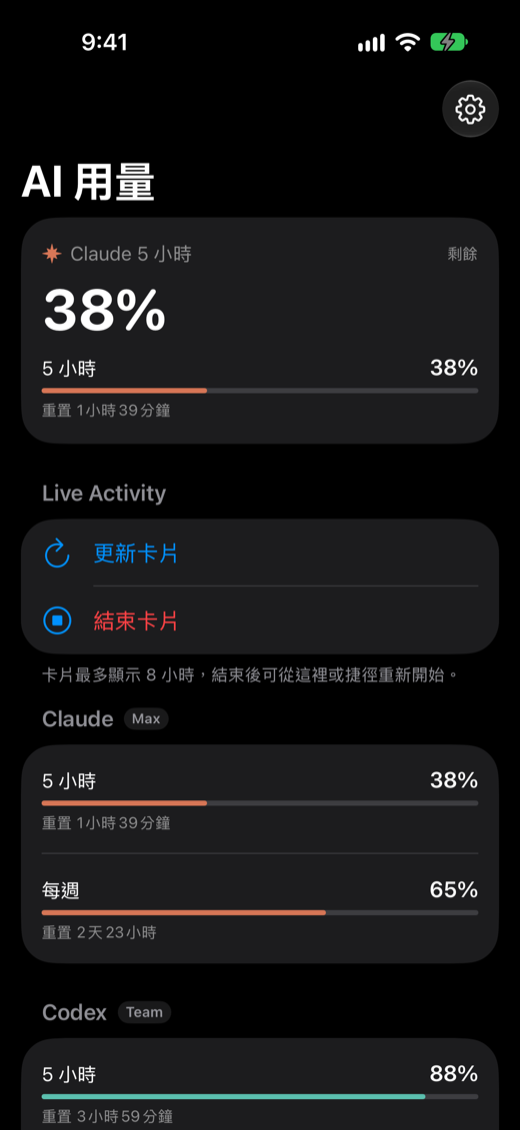
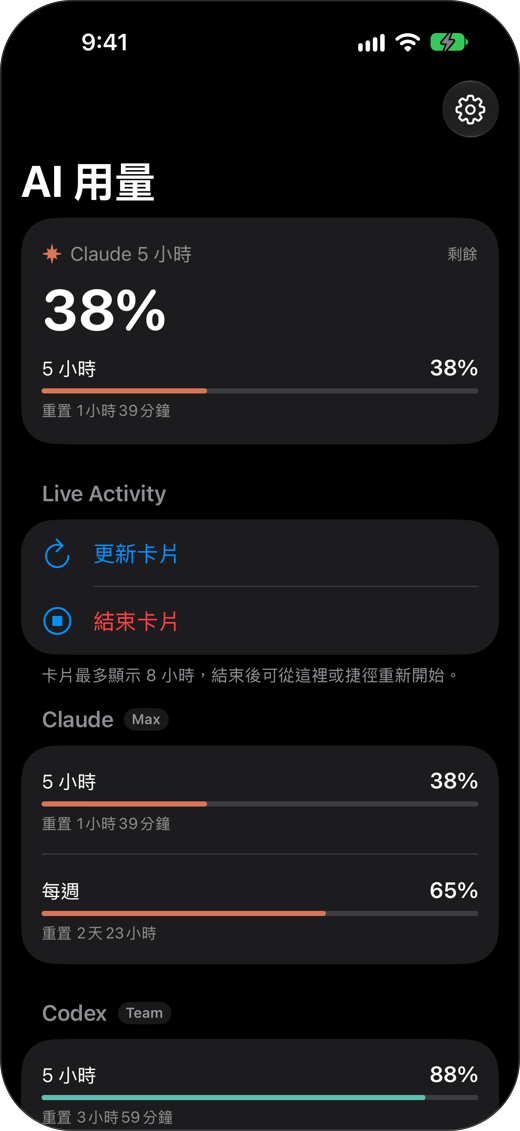
docs: README screenshots in equal-height rows with frames (#92)
* feat(scripts): crop, rounded corners and a thin border for README images

scripts/readme-image-post.swift crops, scales and frames PNG and GIF
images (GIF frames keep their delays; corners are filled with the
GitHub page colour because transparent GIF corners made the file four
times larger). SOURCES.tsv gets an optional fifth column for it, and
update-readme-images.sh runs it instead of sips.

* docs: README screenshots in equal-height rows with frames

The top row is the upper half of the Mac panel next to the iPhone app
(the full panel moves into a collapsible section), then the Dynamic
Island next to the watch. The stats GIF sits beside the full stats
window instead of beside the panel. Widths are chosen so images in a
row have the same height, and every screen gets rounded corners and a
thin border so white screens no longer blend into the page.

---------

Changed region(s): [[0.8615, 0.0, 1.0, 1.0], [0.0, 0.9292, 0.1538, 1.0], [0.0, 0.0, 0.0923, 0.0619]]

diff --git a/scripts/readme-image-post.swift b/scripts/readme-image-post.swift
@@ -1,0 +1,164 @@
+// README 截圖的後製：裁切、縮放、圓角與細邊框（scripts/update-readme-images.sh 依 docs/images/SOURCES.tsv 呼叫）。
+//
+//   swiftc -O scripts/readme-image-post.swift -o build/readme-image-post
+//   build/readme-image-post <PNG 或 GIF> [crop=<y>:<高>] [width=<寬>] [frame=<圓角半徑>]
+//
+// 不管參數順序，一律先裁切（原圖像素，從頂端 y 起留下指定高度），再縮放到指定寬度（等比例），最後加框（縮放後的像素）。
+// 框：圓角外變透明（GIF 改填 GitHub 頁面的底色，見 framed），沿圓角內緣畫寬度約 1 pt（寬度 ÷ 360，至少 1 像素）的邊框；
+// 圖的外圈偏亮時用淡黑色、偏暗時用淡白色，讓白底與深色底的畫面在 GitHub 的淺色與深色頁面上都有輪廓。
+// GIF 逐格處理，保留每格的停留時間與重複播放的設定。直接覆寫原檔。
+// 結束碼：0＝完成，2＝參數錯誤，3＝讀不到或寫不出圖。
+import CoreGraphics
+import Foundation
+import ImageIO
+import UniformTypeIdentifiers
+
+struct Options {
+    var crop: (y: Int, height: Int)?
+    var width: Int?
+    var frame: Double?
+}
+
+func fail(_ message: String, _ code: Int32) -> Never {
+    FileHandle.standardError.write(Data("readme-image-post：\(message)\n".utf8))
+    exit(code)
+}
+
+func parse(_ args: ArraySlice<String>) -> Options {
+    var options = Options()
+    for arg in args {
+        let parts = arg.split(separator: "=", maxSplits: 1).map(String.init)
+        guard parts.count == 2 else { fail("看不懂參數 \(arg)", 2) }
+        switch parts[0] {
+        case "crop":
+            let numbers = parts[1].split(separator: ":").compactMap { Int($0) }
+            guard numbers.count == 2, numbers[0] >= 0, numbers[1] > 0 else { fail("crop 要寫成 crop=<y>:<高>", 2) }
+            options.crop = (numbers[0], numbers[1])
+        case "width":
+            guard let width = Int(parts[1]), width > 0 else { fail("width 要是正整數", 2) }
+            options.width = width
+        case "frame":
+            guard let radius = Double(parts[1]), radius >= 0 else { fail("frame 要是圓角半徑（像素）", 2) }
+            options.frame = radius
+        default:
+            fail("不認得的參數 \(parts[0])", 2)
+        }
+    }
+    return options
+}
+
+let sRGB = CGColorSpace(name: CGColorSpace.sRGB)!
+
+func context(width: Int, height: Int) -> CGContext {
+    guard let context = CGContext(data: nil, width: width, height: height, bitsPerComponent: 8, bytesPerRow: 0, space: sRGB,
+                                  bitmapInfo: CGImageAlphaInfo.premultipliedLast.rawValue) else { fail("無法建立畫布", 3) }
+    context.interpolationQuality = .high
+    return context
+}
+
+func resized(_ image: CGImage, width: Int) -> CGImage {
+    let height = max(Int((Double(image.height) * Double(width) / Double(image.width)).rounded()), 1)
+    let canvas = context(width: width, height: height)
+    canvas.draw(image, in: CGRect(x: 0, y: 0, width: width, height: height))
+    return canvas.makeImage()!
+}
+
+/// 外圈 4 像素的平均亮度（0～1），用來決定邊框用淡黑或淡白
+func edgeLuminance(_ image: CGImage) -> Double {
+    let width = image.width, height = image.height
+    let canvas = context(width: width, height: height)
+    canvas.draw(image, in: CGRect(x: 0, y: 0, width: width, height: height))
+    let data = canvas.data!.assumingMemoryBound(to: UInt8.self)
+    let stride = canvas.bytesPerRow
+    var total = 0.0, count = 0.0
+    for y in 0..<height {
+        for x in 0..<width where x < 4 || x >= width - 4 || y < 4 || y >= height - 4 {
+            let p = data + y * stride + x * 4
+            let alpha = Double(p[3]) / 255
+            guard alpha > 0 else { continue }
+            total += (0.2126 * Double(p[0]) + 0.7152 * Double(p[1]) + 0.0722 * Double(p[2])) / 255 / alpha
+            count += 1
+        }
+    }
+    return count > 0 ? total / count : 1
+}
+
+/// opaque：GIF 用。透明的圓角會讓 ImageIO 每格多存透明色，檔案大四倍以上，所以圓角外改填 GitHub 頁面的底色
+/// （淺色 #ffffff、深色 #0d1117；README 以 <picture> 依讀者的系統挑淺色或深色版）
+func framed(_ image: CGImage, radius: Double, light: Bool, opaque: Bool) -> CGImage {
+    let width = image.width, height = image.height
+    let border = max(Double(width) / 360, 1)
+    let canvas = context(width: width, height: height)
+    let bounds = CGRect(x: 0, y: 0, width: width, height: height)
+    if opaque {
+        canvas.setFillColor(light ? CGColor(srgbRed: 1, green: 1, blue: 1, alpha: 1)
+                                  : CGColor(srgbRed: 13 / 255, green: 17 / 255, blue: 23 / 255, alpha: 1))
+        canvas.fill(bounds)
+    }
+    let r = min(radius, Double(min(width, height)) / 2)
+    canvas.addPath(CGPath(roundedRect: bounds, cornerWidth: r, cornerHeight: r, transform: nil))
+    canvas.clip()
+    canvas.draw(image, in: bounds)
+    let inset = bounds.insetBy(dx: border / 2, dy: border / 2)
+    let innerRadius = max(r - border / 2, 0)
+    canvas.addPath(CGPath(roundedRect: inset, cornerWidth: innerRadius, cornerHeight: innerRadius, transform: nil))
+    canvas.setLineWidth(border)
+    canvas.setStrokeColor(light ? CGColor(srgbRed: 0, green: 0, blue: 0, alpha: 0.14)
+                                : CGColor(srgbRed: 1, green: 1, blue: 1, alpha: 0.18))
+    canvas.strokePath()
+    return canvas.makeImage()!
+}
+
+let arguments = CommandLine.arguments
+guard arguments.count >= 2 else { fail("用法：readme-image-post <PNG 或 GIF> [crop=<y>:<高>] [width=<寬>] [frame=<半徑>]", 2) }
+let url = URL(fileURLWithPath: arguments[1])
+let options = parse(arguments.dropFirst(2))
+
+guard let source = CGImageSourceCreateWithURL(url as CFURL, nil), let type = CGImageSourceGetType(source) else {
+    fail("讀不到 \(url.lastPathComponent)", 3)
+}
+let count = CGImageSourceGetCount(source)
+var frames: [(CGImage, CFDictionary?)] = []
+var light: Bool?
+for index in 0..<count {
+    guard var image = CGImageSourceCreateImageAtIndex(source, index, nil) else { fail("讀不到第 \(index + 1) 格", 3) }
+    if let crop = options.crop {
+        guard crop.y + crop.height <= image.height,
+              let cropped = image.cropping(to: CGRect(x: 0, y: crop.y, width: image.width, height: crop.height)) else {
+            fail("裁切範圍超出圖片（高 \(image.height)）", 2)
+        }
+        image = cropped
+    }
+    if let width = options.width, width != image.width { image = resized(image, width: width) }
+    if let radius = options.frame {
+        if light == nil { light = edgeLuminance(image) >= 0.5 }  // GIF 以第一格決定，整段一致
+        image = framed(image, radius: radius, light: light!, opaque: UTType(type as String) == .gif)
+    }
+    // 只保留 GIF 的停留時間；PNG 的 DPI 等屬性不帶過去（縮放後已不對）
+    var properties: [CFString: Any] = [:]
+    if let frameProperties = CGImageSourceCopyPropertiesAtIndex(source, index, nil) as? [CFString: Any],
+       let gif = frameProperties[kCGImagePropertyGIFDictionary] as? [CFString: Any] {
+        properties[kCGImagePropertyGIFDictionary] = gif.filter {
+            [kCGImagePropertyGIFDelayTime, kCGImagePropertyGIFUnclampedDelayTime].contains($0.key)
+        }
+    }
+    frames.append((image, properties.isEmpty ? nil : properties as CFDictionary))
+}
+
+let temporary = url.deletingLastPathComponent().appendingPathComponent(".\(url.lastPathComponent).tmp")
+guard let destination = CGImageDestinationCreateWithURL(temporary as CFURL, type, count, nil) else {
+    fail("寫不出 \(url.lastPathComponent)", 3)
+}
+if let fileProperties = CGImageSourceCopyProperties(source, nil) as? [CFString: Any],
+   let gif = fileProperties[kCGImagePropertyGIFDictionary] as? [CFString: Any],
+   let loop = gif[kCGImagePropertyGIFLoopCount] {
+    CGImageDestinationSetProperties(destination, [kCGImagePropertyGIFDictionary: [kCGImagePropertyGIFLoopCount: loop]] as CFDictionary)
+}
+for (image, properties) in frames { CGImageDestinationAddImage(destination, image, properties) }
+guard CGImageDestinationFinalize(destination) else { fail("寫不出 \(url.lastPathComponent)", 3) }
+do {
+    _ = try FileManager.default.replaceItemAt(url, withItemAt: temporary)
+} catch {
+    try? FileManager.default.removeItem(at: temporary)
+    fail("無法覆寫 \(url.lastPathComponent)", 3)
+}

diff --git a/scripts/tests/test_check_readme_images.py b/scripts/tests/test_check_readme_images.py
@@ -97,6 +97,18 @@ class CheckReadmeImagesTests(unittest.TestCase):
         r = self.run_check("--strict")
         self.assertEqual(r.returncode, 0, r.stdout)
 
+    def test_post_processing_column_is_accepted(self):
+        self.write("docs/images/SOURCES.tsv", HEADER + "panel.png\tmac:panel-light.png\tapple/Snapshots/mac/panel-light.png\t-\tcrop=0:1186 frame=24\n")
+        self.commit("post column", when=2_000_000)
+        r = self.run_check("--strict")
+        self.assertEqual(r.returncode, 0, r.stdout)
+
+    def test_wrong_column_count_fails(self):
+        self.write("docs/images/SOURCES.tsv", HEADER + "panel.png\tmac:panel-light.png\n")
+        r = self.run_check()
+        self.assertNotEqual(r.returncode, 0)
+        self.assertIn("要 4 或 5 欄", r.stderr)
+
     def test_unreferenced_source_warns(self):
         self.write("docs/images/other.png", "x")
         self.write("docs/images/SOURCES.tsv", HEADER + "panel.png\tmac:panel-light.png\tapple/Snapshots/mac/panel-light.png\t-\n"

diff --git a/scripts/check-readme-images.py b/scripts/check-readme-images.py
@@ -44,8 +44,8 @@ def read_sources(root: Path) -> dict[str, str]:
         if not line.strip() or line.startswith("#"):
             continue
         fields = line.split("\t")
-        if len(fields) != 4:
-            raise ValueError(f"{SOURCES} 的格式不對（要 4 欄，以 tab 分隔）：{line}")
+        if len(fields) not in (4, 5):  # 第 5 欄「後製」可省略
+            raise ValueError(f"{SOURCES} 的格式不對（要 4 或 5 欄，以 tab 分隔）：{line}")
         mapping[fields[0]] = fields[2]
     return mapping
 

diff --git a/README.md b/README.md
@@ -6,30 +6,36 @@
 
 > 目前發布的版本是 [0.5.0](CHANGELOG.md#050---2026-10-21)（只有原始碼）。之後的 Mac 面板與 Token 統計（v1.5～v1.8）、iPhone 小工具，以及外觀設定、一鍵安裝、設定精靈與 iPhone 配對（v1.9）已在 `main`，**尚未發版**，見 [CHANGELOG](CHANGELOG.md) 的 Unreleased 與[里程碑](docs/03-development-workflow.md#1-里程碑)。下表標「未發版」的功能要從原始碼安裝。
 
+<!-- 同一排的圖以寬度算成等高（SOURCES.tsv 的尺寸 × 寬度）；用 width 不用 height，窄螢幕時換行而不是壓扁 -->
+<p align="center">
+  <picture>
+    <source media="(prefers-color-scheme: dark)" srcset="docs/images/mac-panel-top-dark.png">
+    <img src="docs/images/mac-panel-top-light.png" width="291" alt="Mac 選單列面板的上半部：剩餘最少的額度、建議接下來用、各服務各額度的進度條與預期標記">
+  </picture>
+  &nbsp;&nbsp;
+  <picture>
+    <source media="(prefers-color-scheme: dark)" srcset="docs/images/iphone-app-dark.png">
+    <img src="docs/images/iphone-app-light.png" width="221" alt="iPhone App：剩餘最少的額度、各服務各額度的進度條與重置倒數">
+  </picture>
+</p>
+
+<p align="center">
+  <img src="docs/images/iphone-island.png" width="486" alt="動態島展開：剩餘最少的額度大字、兩個服務各額度的進度條與更新按鈕">
+  &nbsp;&nbsp;
+  <img src="docs/images/watch-app.png" width="159" alt="Apple Watch App：剩餘最少的額度與各額度進度條">
+</p>
+
+<details>
+<summary>看完整的 Mac 面板（接下來的重置、本週額度走勢、額度消耗、Token 統計、服務狀態）</summary>
+
 <p align="center">
   <picture>
     <source media="(prefers-color-scheme: dark)" srcset="docs/images/mac-panel-dark.png">
     <img src="docs/images/mac-panel-light.png" width="300" alt="Mac 選單列面板：剩餘最少的額度、建議接下來用、各額度進度條、接下來的重置、本週額度走勢、額度消耗、這台 Mac 的 Token 統計與服務狀態">
   </picture>
-  &nbsp;
-  <picture>
-    <source media="(prefers-color-scheme: dark)" srcset="docs/images/mac-stats-switch-dark.gif">
-    <img src="docs/images/mac-stats-switch-light.gif" width="300" alt="統計卡片依序切換全部、Claude、Codex：全部的熱力圖是藍色色階，Claude、Codex 用各自的識別色；Token 數以萬、億顯示">
-  </picture>
 </p>
 
-<p align="center">
-  <picture>
-    <source media="(prefers-color-scheme: dark)" srcset="docs/images/iphone-app-dark.png">
-    <img src="docs/images/iphone-app-light.png" width="240" alt="iPhone App：剩餘最少的額度、各服務各額度的進度條與重置倒數">
-  </picture>
-  &nbsp;
-  <img src="docs/images/watch-app.png" width="200" alt="Apple Watch App：剩餘最少的額度與各額度進度條">
-</p>
-
-<p align="center">
-  <img src="docs/images/iphone-island.png" width="440" alt="動態島展開：剩餘最少的額度大字、兩個服務各額度的進度條與更新按鈕">
-</p>
+</details>
 
 截圖都是示範資料（Debug 版的 `AUM_DEMO`／`scripts/make-demo-history.py`），不是真實用量；由 `scripts/update-readme-images.sh` 產生（來源見 `docs/images/SOURCES.tsv`）。
 
@@ -42,10 +48,17 @@
 | Mac 選單列 | 選單列圖示（雙圓環）顯示剩餘最少的額度；卡片式面板：建議接下來用、各額度與「照目前速度」的預測、接下來的重置（8 小時時間軸與每週額度可撐到星期幾）、本週額度走勢、額度消耗熱力圖、這台 Mac 的 Token 統計（本週、單日最高、最長任務、連續天數、活動熱力圖）、服務狀態（分辨「服務異常」與「額度用完」）；完整統計視窗；通知（剩不到 20%、用得太快、額度重置；「剩不到 20%」預設開，其他預設關）；右鍵選單與全域快捷鍵；卡片可排序、收合、隱藏；外觀設定（跟隨系統、淺色、深色）；第一次打開時的設定精靈。v1.5 以後的面板與這些功能都未發版 |
 | 收集器 | 每 5 分鐘執行 Claude Code 的 `/usage` 與 Codex CLI 的 `app-server` 取得額度，寫本機快照、額度歷史與 Token 統計，並上傳精簡快照到你自己的中繼。由 App 內建的背景收集器（未發版）或 `install-launchd.sh` 裝的 launchd 工作執行，兩者不會同時跑 |
 
+Token 統計：面板的統計卡片可切換全部、Claude、Codex（左）；「完整統計」視窗看一整年、各模型與一天中的時段（右）。
+
 <p align="center">
   <picture>
+    <source media="(prefers-color-scheme: dark)" srcset="docs/images/mac-stats-switch-dark.gif">
+    <img src="docs/images/mac-stats-switch-light.gif" width="265" alt="統計卡片依序切換全部、Claude、Codex：全部的熱力圖是藍色色階，Claude、Codex 用各自的識別色；Token 數以萬、億顯示">
+  </picture>
+  &nbsp;&nbsp;
+  <picture>
     <source media="(prefers-color-scheme: dark)" srcset="docs/images/mac-stats-window-dark.png">
-    <img src="docs/images/mac-stats-window-light.png" width="720" alt="完整統計視窗：一年活動熱力圖（全部為藍色色階）、最近 30 天長條、各模型與一天中的時段">
+    <img src="docs/images/mac-stats-window-light.png" width="432" alt="完整統計視窗：一年活動熱力圖（全部為藍色色階）、最近 30 天長條、各模型與一天中的時段">
   </picture>
 </p>
 
@@ -54,7 +67,7 @@
 <p align="center">
   <picture>
     <source media="(prefers-color-scheme: dark)" srcset="docs/images/mac-settings-appearance-dark.png">
-    <img src="docs/images/mac-settings-appearance-light.png" width="460" alt="Mac 設定的「外觀」：跟隨系統、淺色、深色">
+    <img src="docs/images/mac-settings-appearance-light.png" width="440" alt="Mac 設定的「外觀」：跟隨系統、淺色、深色">
   </picture>
 </p>
 
@@ -130,7 +143,7 @@ curl -fsSL https://github.com/kevin930326/ai-usage-monitor/releases/download/vX.
 <p align="center">
   <picture>
     <source media="(prefers-color-scheme: dark)" srcset="docs/images/mac-wizard-dark.png">
-    <img src="docs/images/mac-wizard-light.png" width="360" alt="設定精靈：App 位置、背景收集器、Claude Code、Codex、通知、登入時開啟、外觀、在 iPhone 上看，每步顯示完成或需要處理">
+    <img src="docs/images/mac-wizard-light.png" width="300" alt="設定精靈：App 位置、背景收集器、Claude Code、Codex、通知、登入時開啟、外觀、在 iPhone 上看，每步顯示完成或需要處理">
   </picture>
 </p>
 
@@ -180,7 +193,7 @@ cd ai-usage-monitor
 <p align="center">
   <picture>
     <source media="(prefers-color-scheme: dark)" srcset="docs/images/iphone-settings-pairing-dark.png">
-    <img src="docs/images/iphone-settings-pairing-light.png" width="260" alt="iPhone 設定：中繼網址與讀取密鑰，下方「從 Mac 配對」有「掃描 QR 碼」與「輸入短碼」">
+    <img src="docs/images/iphone-settings-pairing-light.png" width="221" alt="iPhone 設定：中繼網址與讀取密鑰，下方「從 Mac 配對」有「掃描 QR 碼」與「輸入短碼」">
   </picture>
 </p>
 

diff --git a/CHANGELOG.md b/CHANGELOG.md
@@ -14,7 +14,7 @@
 - 通知「剩不到 20%」預設開，第一次打開 App 時要求權限；系統設定關閉通知時，設定顯示「通知已在系統設定中關閉」與「打開系統設定」
 
 ### Added
-- README 截圖：`scripts/update-readme-images.sh` 依 `docs/images/SOURCES.tsv` 以固定時間與示範資料重新產生（Mac 與動態島用 ImageRenderer，iPhone 主畫面、設定與手錶用模擬器截圖）；主要畫面有淺色、深色兩版，README 以 `<picture>` 依讀者的系統顯示；新增外觀設定的截圖，統計切換的 GIF 改為全部 → Claude → Codex → 全部。`scripts/check-readme-images.py`（verify-all、CI）在 README 引用的圖不存在或沒有來源時失敗，比對應的截圖基準舊時提醒
+- README 截圖：`scripts/update-readme-images.sh` 依 `docs/images/SOURCES.tsv` 以固定時間與示範資料重新產生（Mac 與動態島用 ImageRenderer，iPhone 主畫面、設定與手錶用模擬器截圖）；主要畫面有淺色、深色兩版，README 以 `<picture>` 依讀者的系統顯示；新增外觀設定的截圖，統計切換的 GIF 改為全部 → Claude → Codex → 全部。開頭一排是 Mac 面板的上半部（完整面板收在「看完整的 Mac 面板」）與 iPhone、下一排是動態島與手錶，同一排等高；統計 GIF 與完整統計視窗並排；畫面加上圓角與細邊框（`scripts/readme-image-post.swift`，SOURCES.tsv 第 5 欄）。`scripts/check-readme-images.py`（verify-all、CI）在 README 引用的圖不存在或沒有來源時失敗，比對應的截圖基準舊時提醒
 - 外觀設定（v1.9，FR-51、FR-52，#81）：Mac 設定「外觀」可選跟隨系統（預設）、淺色、深色，套用到面板、設定、完整統計與設定精靈的視窗，選單列圖示仍跟隨選單列；iPhone 設定「外觀」只套用到 App 本身，Live Activity、小工具與手錶跟隨系統。切換有 0.3 秒過渡，減少動態效果時直接換
 - Mac 一鍵安裝與內建收集器（v1.9，FR-53，ADR-0013，#83）：發布版 App 內嵌 Python（python-build-standalone 3.13 arm64，固定 SHA-256）與收集器，以 `SMAppService.agent` 註冊背景收集器；`scripts/build-release.sh` 產生 .zip、.dmg、寫好版本與 SHA-256 的一行安裝 `install.sh`（驗證 SHA-256、bundle ID、簽章；重跑即更新；`--uninstall`）；`.github/workflows/release.yml` 在 `v*` tag 只建立草稿 Release（附建置來源證明）。偵測到 `install-launchd.sh` 的舊收集器時**不註冊**，只提示，使用者按「改用內建收集器」才遷移；設定新增「背景收集器」
 - 首次設定精靈（v1.9，FR-54，#84）：第一次打開、還沒有用量資料時顯示 8 個步驟（App 位置、背景收集器、Claude Code、Codex、通知、登入時開啟、外觀、在 iPhone 上看），每步顯示完成或要處理的事，需要指令時附「複製」；可從「設定 › 一般 › 重新執行設定精靈」再打開

diff --git a/CLAUDE.md b/CLAUDE.md
@@ -26,6 +26,6 @@
 
 ## README 截圖
 
-- README 的圖片在 `docs/images/`，來源與對應的截圖基準列在 `docs/images/SOURCES.tsv`；由 `scripts/update-readme-images.sh` 以固定時間與示範資料產生（Mac 與動態島用 ImageRenderer；iPhone 的主畫面、設定與手錶用模擬器截圖，因為 iOS 的 ImageRenderer 畫不出 ProgressView）。主要畫面放淺色、深色兩版，README 以 `<picture>` 依讀者的系統顯示。
+- README 的圖片在 `docs/images/`，來源與對應的截圖基準列在 `docs/images/SOURCES.tsv`；由 `scripts/update-readme-images.sh` 以固定時間與示範資料產生（Mac 與動態島用 ImageRenderer；iPhone 的主畫面、設定與手錶用模擬器截圖，因為 iOS 的 ImageRenderer 畫不出 ProgressView）。主要畫面放淺色、深色兩版，README 以 `<picture>` 依讀者的系統顯示。SOURCES.tsv 第 5 欄是後製（`crop=` 裁切、`frame=` 圓角與細邊框，`scripts/readme-image-post.swift`）；README 裡同一排的圖以 `width` 算成等高（不用 `height`，窄螢幕時換行而不是壓扁）。
 - `scripts/check-readme-images.py`（verify-all 與 CI）：README 引用的圖不存在或沒列在 SOURCES.tsv 時失敗；圖片比對應的基準舊（基準後來又提交過）時提醒。
 - 用 `scripts/update-snapshots.sh` 更新了基準、看到提醒，或畫面有意改變時，執行 `scripts/update-readme-images.sh`，逐張檢查 `git diff` 中的圖再和基準一起提交；新增 README 圖片時先加進 SOURCES.tsv。
